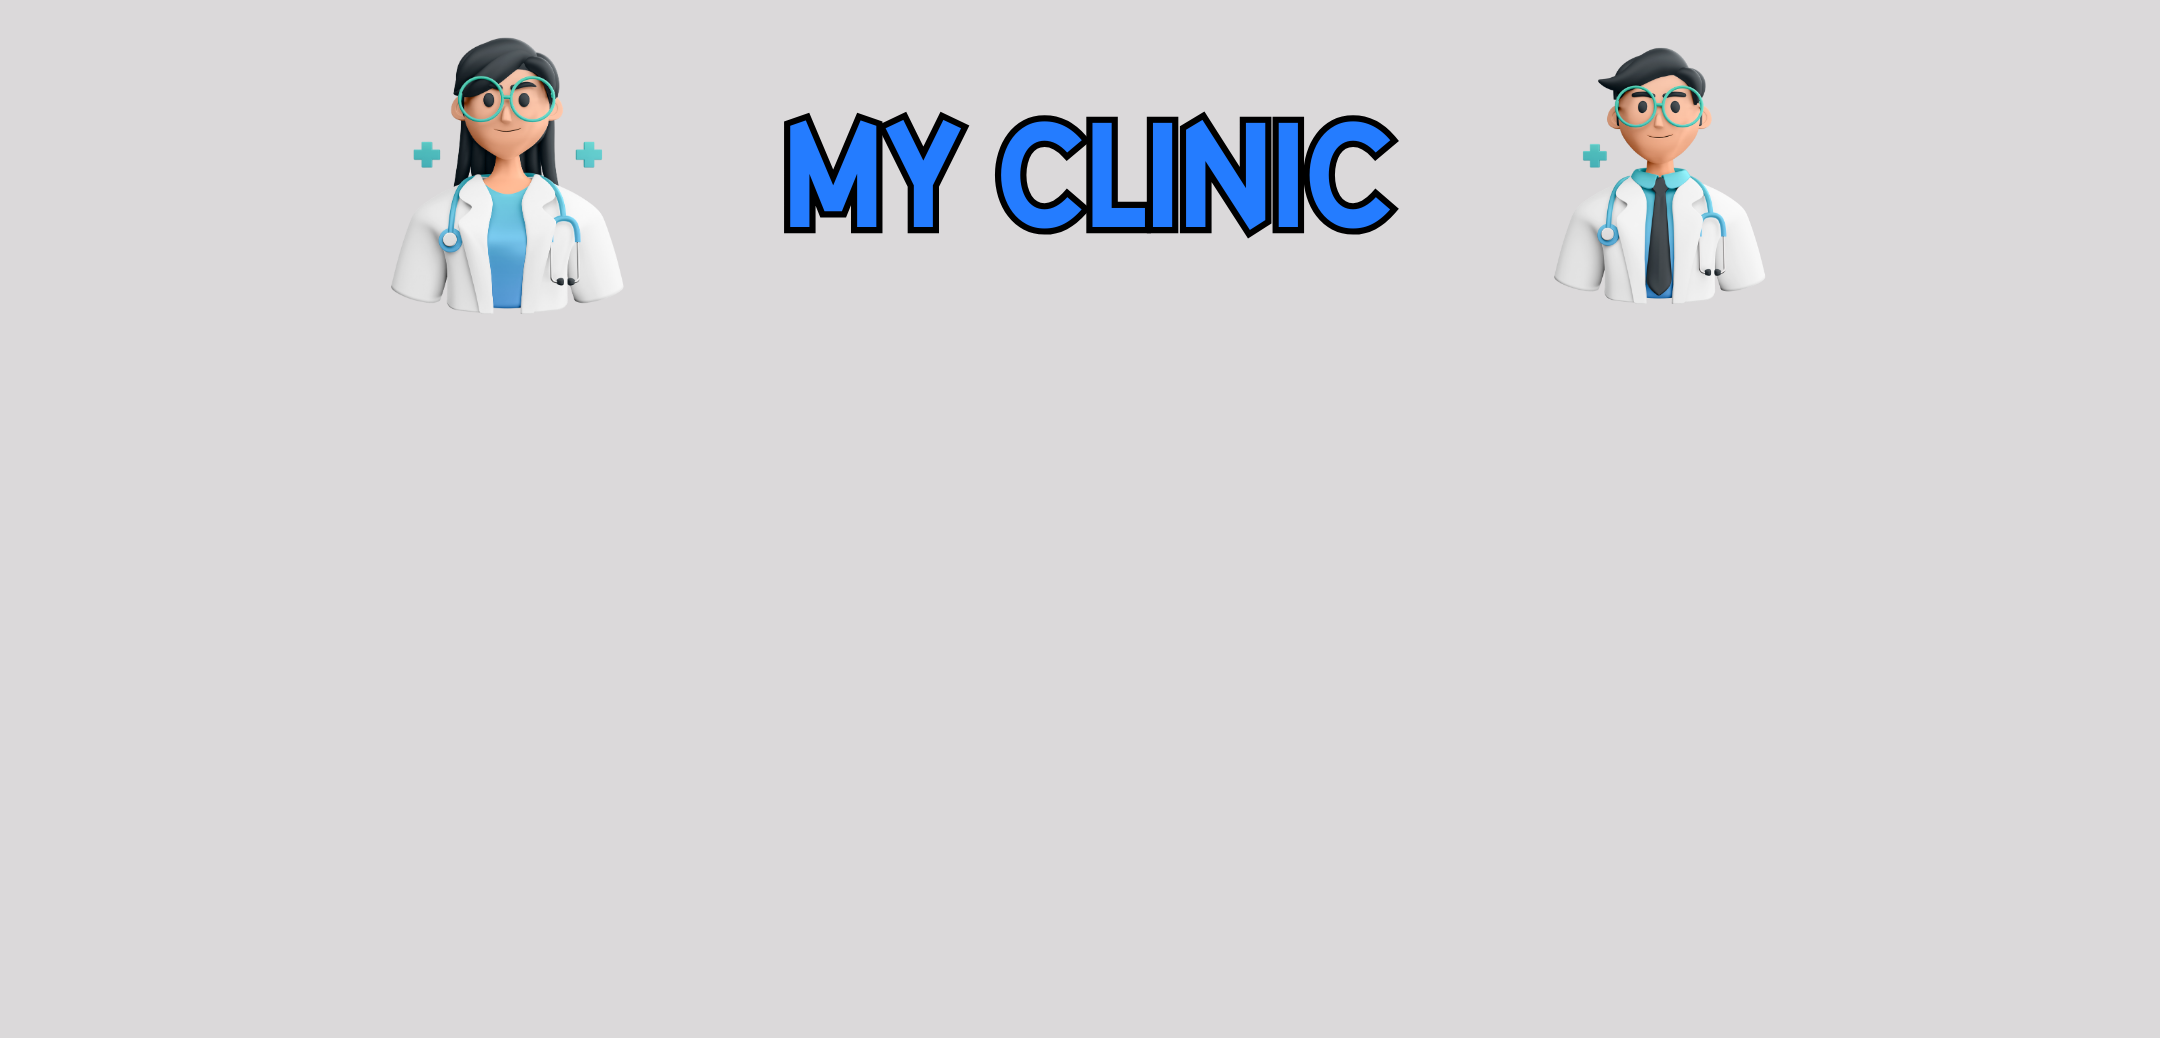
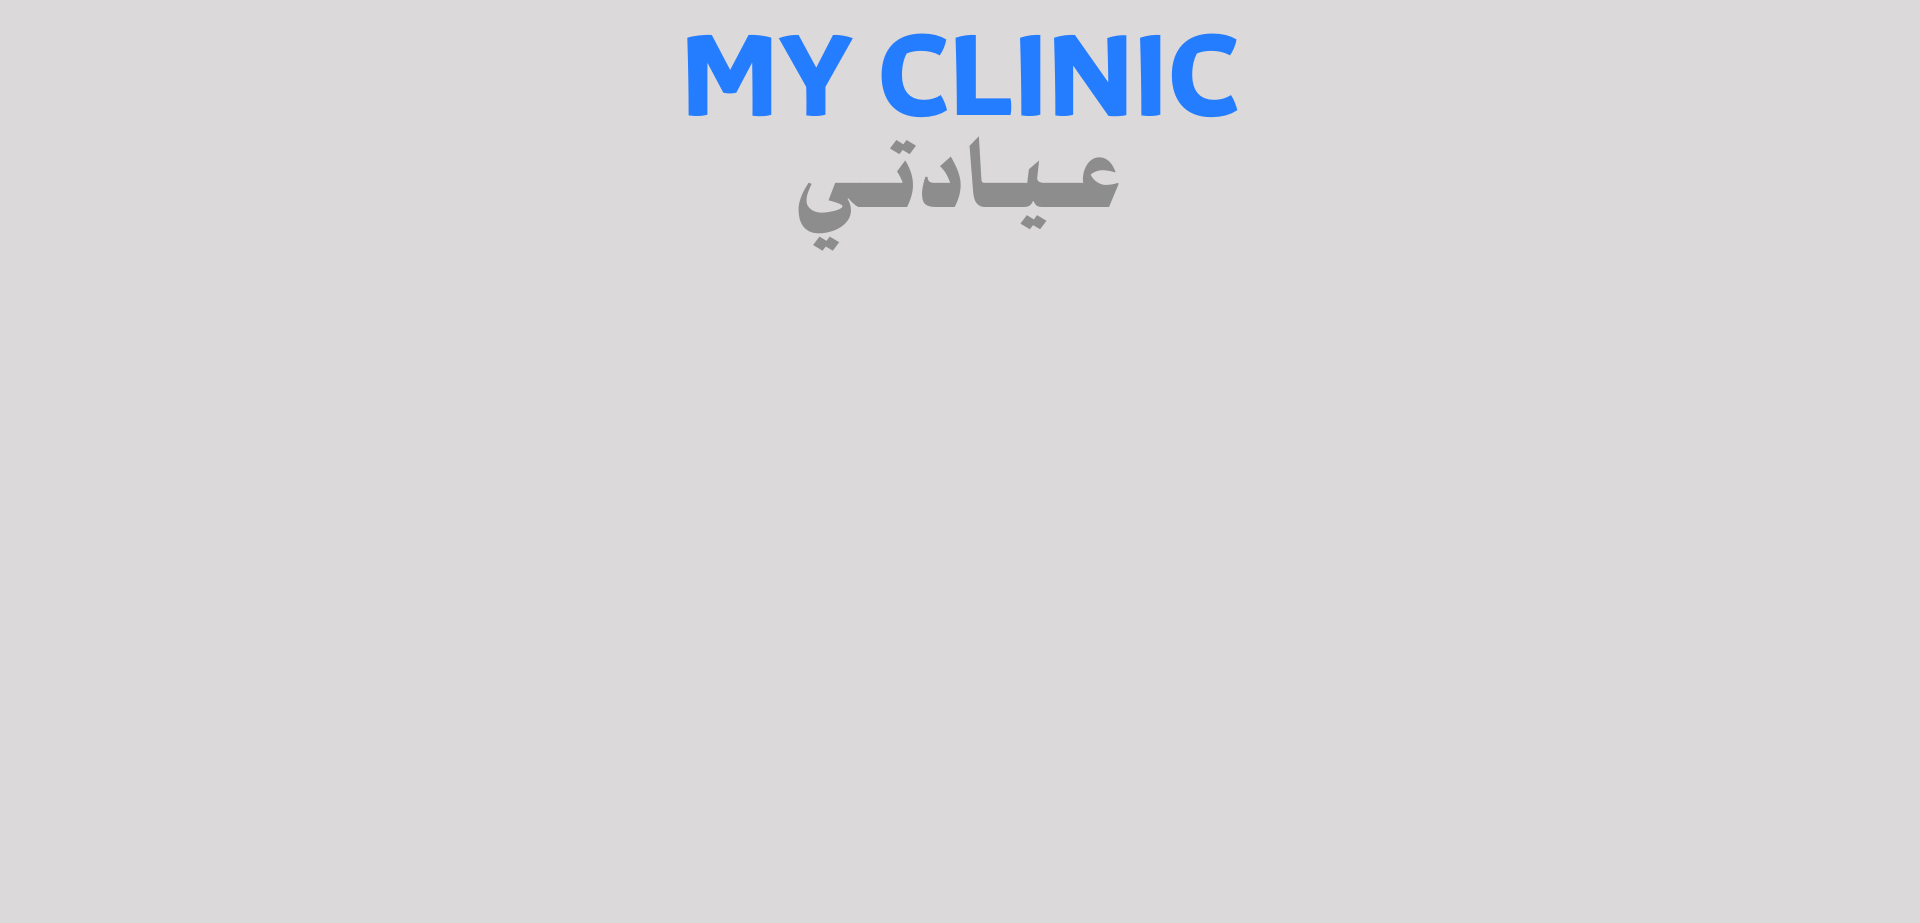
rest one Editing

Changed region(s): [[0.3438, 0.0303, 0.6562, 0.273], [0.1875, 0.0303, 0.3125, 0.3034], [0.7188, 0.0303, 0.8125, 0.3034]]

diff --git a/First_Project/dams/Homestyle.css b/First_Project/dams/Homestyle.css
@@ -99,3 +99,19 @@ body {
 
 
   /*///////////////////////////////////////*/
+
+
+
+
+
+
+
+
+
+
+
+
+
+
+
+  

diff --git a/First_Project/dams/index.php b/First_Project/dams/index.php
@@ -126,6 +126,86 @@ $("#doctorlist").html(data);
   color: white;
 }
 
+
+
+
+
+
+
+
+
+/* /////////////////////////////////////////////////////////////////// */
+
+
+
+.buttonn {
+  position: relative;
+  transition: all 0.3s ease-in-out;
+  box-shadow: 0px 10px 20px rgba(0, 0, 0, 0.2);
+  padding-block: 0.5rem;
+  padding-inline: 1.25rem;
+  background-color: rgb(0 107 179);
+  border-radius: 9999px;
+  display: flex;
+  align-items: center;
+  justify-content: center;
+  color: #ffff;
+  gap: 10px;
+  font-weight: bold;
+  border: 3px solid #ffffff4d;
+  outline: none;
+  overflow: hidden;
+  font-size: 15px;
+}
+
+.icon {
+  width: 24px;
+  height: 24px;
+  transition: all 0.3s ease-in-out;
+}
+
+.buttonn:hover {
+  transform: scale(1.10);
+  border-color: #fff9;
+}
+
+.buttonn:hover .icon {
+  transform: translate(4px);
+}
+
+.buttonn:hover::before {
+  animation: shine 1.5s ease-out infinite;
+}
+
+.buttonn::before {
+  content: "";
+  position: absolute;
+  width: 100px;
+  height: 100%;
+  background-image: linear-gradient(
+    120deg,
+    rgba(255, 255, 255, 0) 30%,
+    rgba(255, 255, 255, 0.8),
+    rgba(255, 255, 255, 0) 70%
+  );
+  top: 0;
+  left: -100px;
+  opacity: 0.6;
+}
+
+@keyframes shine {
+  0% {
+    left: -100px;
+  }
+
+  60% {
+    left: 100%;
+  }
+
+  to {
+    left: 100%;
+  }
+}
 </style>
     </head>
     
@@ -221,8 +301,73 @@ foreach($results as $row)
 
 </center> -->
 
+
+
+
             <center style="background-color: white;padding-bottom: 100px;">
     <p class="docheading">Select The Category of Doctors</p>
+
+
+    <div id="container" >
+<a href="./Card Slider/Cards/Doctor-1/index.php"><button class="buttonn" style="margin-left:39px;">
+  Obstetrics and Gynecology
+ </button></a>
+ <a href="./Card Slider/Cards/Doctor-2/index.php"><button class="buttonn" style="    margin-left: 29px;">
+ Internal Medicine - Cardiology
+ </button></a>
+ <a href="./Card Slider/Cards/Doctor-3/index.php"><button class="buttonn" style="    margin-left: 29px;">
+ medical diagnostic radiology -board
+ </button></a>
+ <a href="./Card Slider/Cards/Doctor-4/index.php"><button class="buttonn" style="    margin-left: 29px;">
+ Dentistry
+ </button></a>
+ <a href="./Card Slider/Cards/Doctor-5/index.php"><button class="buttonn" style="    margin-left: 29px;">
+ Cancer Specialty
+ </button></a>
+  </div>
+
+
+
+  <div id="container" style="margin-top:40px">
+<a href="./Card Slider/Cards/Doctor-6/index.php"><button class="buttonn" style="margin-left:39px;">
+Kidney Surgery - Urology
+  </button></a>
+ <a href="./Card Slider/Cards/Doctor-7/index.php"><button class="buttonn" style="    margin-left: 29px;">
+ Brain Surgery - Spine - Neurospinal
+    
+ </button></a>
+ <a href="./Card Slider/Cards/Doctor-8/index.php"><button class="buttonn" style="    margin-left: 29px;">
+ Dental Treatment
+ </button></a>
+ <a href="./Card Slider/Cards/Doctor-9/index.php"><button class="buttonn" style="    margin-left: 29px;">
+ Pediatric Medicine
+ </button></a>
+ <a href="./Card Slider/Cards/Doctor-10/index.php"><button class="buttonn" style="    margin-left: 29px;">
+ Rheumatology Board
+ </button></a>
+  </div>
+
+
+
+  <div id="container" style="margin-top:40px">
+<a href="./Card Slider/Cards/Doctor-11/index.php"><button class="buttonn" style="margin-left:39px;">
+Dermatology - Cosmetic -  Laser
+  </button></a>
+ 
+  </div>
+
+
+
+
+
+
+  <br><br><br><br><br><br><br><br><br>
+
+
+
+
+
+
     <div id="container">
       <div><a class="doc_link" href="./Card Slider/Cards/Doctor-1/index.php">Obstetrics and Gynecology</a></div>
       <div><a class="doc_link" href="./Card Slider/Cards/Doctor-2/index.php">Internal Medicine - Cardiology</a></div>
@@ -237,6 +382,7 @@ foreach($results as $row)
       <div><a class="doc_link" href="./Card Slider/Cards/Doctor-9/index.php">Pediatric Medicine</a></div>
       <div><a class="doc_link" href="./Card Slider/Cards/Doctor-10/index.php">Rheumatology Board</a></div>
     </div>
+    &nbsp;
     <div id="container">
       <span></span>
       <span></span>

diff --git a/First_Project/dams/Card Slider/Cards/Doctor-2/index.php b/First_Project/dams/Card Slider/Cards/Doctor-2/index.php
@@ -43,7 +43,7 @@
   padding: 0;
 }
 .background-imag{
-  background-image: url('MY_CLINIC.jpg');
+  background-image: url('./MY_CLINIC.jpg');
   background-size:cover;
   background-repeat:no-repeat;
   height: 100vh;
@@ -52,7 +52,7 @@
 
 .container {
     border-radius: 20px;
-    margin-top: 93px;
+    margin-top: 152px;
 }
 
 
@@ -70,7 +70,7 @@
         <div class="swiper-slide card">
           <div class="card-content">
             <div class="image">
-              <img src="img/1.jpg" alt="">
+              <img src="img/MY_CLINIC.jpg" alt="">
             </div>
 
             <div class="social-media">
@@ -95,7 +95,7 @@ if (mysqli_num_rows($result) > 0)
         // echo "" .$row["MobileNumber"]."<br>";
         // echo "" .$row["Specialization"]."<br>";
         echo "<tr>";
-            echo "<td><a href='#' style='font-size: 15px;text-decoration: none;color: black;' >" .$row["FullName"] . "</a></td>";
+            echo "<td><a href='#' style='font-size: 15px; padding-left: 30px;text-decoration: none;color: black;' >" .$row["FullName"] . "</a></td>";
             echo "<br>";
             echo "<td><a href='#' style='font-size: 15px;text-decoration: none;color: black;margin-left: 63px;' >0" .$row["MobileNumber"] . "</a></td>";
  

diff --git a/First_Project/dams/Card Slider/Cards/Doctor-3/index.php b/First_Project/dams/Card Slider/Cards/Doctor-3/index.php
@@ -53,7 +53,7 @@
 
 .container {
     border-radius: 20px;
-    margin-top: 104px;
+    margin-top: 169px;
 }
 
 
@@ -96,7 +96,7 @@ if (mysqli_num_rows($result) > 0)
         // echo "" .$row["MobileNumber"]."<br>";
         // echo "" .$row["Specialization"]."<br>";
         echo "<tr>";
-            echo "<td><a href='#' style='font-size: 15px;text-decoration: none;color: black;' >" .$row["FullName"] . "</a></td>";
+            echo "<td><a href='#' style='font-size: 15px;text-decoration: none;color: black; padding-left: 35px;' >" .$row["FullName"] . "</a></td>";
             echo "<br>";
             echo "<td><a href='#' style='font-size: 15px;text-decoration: none;color: black;margin-left: 63px;' >0" .$row["MobileNumber"] . "</a></td>";
  

diff --git a/First_Project/dams/Card Slider/Cards/Doctor-11/index.php b/First_Project/dams/Card Slider/Cards/Doctor-11/index.php
@@ -53,7 +53,7 @@
 
 .container {
     border-radius: 20px;
-    margin-top: 110px;
+    margin-top: 169px;
 }
 
 
@@ -71,7 +71,7 @@
         <div class="swiper-slide card">
           <div class="card-content">
             <div class="image">
-              <img src="img/1.jpg" alt="">
+              <img src="img/MY_CLINIC.jpg" alt="">
             </div>
 
             <div class="social-media">

diff --git a/First_Project/dams/Card Slider/Cards/Doctor-8/index.php b/First_Project/dams/Card Slider/Cards/Doctor-8/index.php
@@ -53,7 +53,7 @@
 
 .container {
     border-radius: 20px;
-    margin-top: 93px;
+    margin-top: 152px;
 }
 
 
@@ -71,7 +71,7 @@
         <div class="swiper-slide card">
           <div class="card-content">
             <div class="image">
-              <img src="img/1.jpg" alt="">
+              <img src="img/MY_CLINIC.jpg" alt="">
             </div>
 
             <div class="social-media">

diff --git a/First_Project/dams/Card Slider/Cards/Doctor-1/index.php b/First_Project/dams/Card Slider/Cards/Doctor-1/index.php
@@ -43,7 +43,7 @@
   padding: 0;
 }
 .background-imag{
-  background-image: url('MY_CLINIC.jpg');
+  background-image: url('./MY_CLINIC.jpg');
   background-size:cover;
   background-repeat:no-repeat;
   height: 100vh;
@@ -52,7 +52,7 @@
 
 .container {
     border-radius: 20px;
-    margin-top: 93px;
+    margin-top: 152px;
 }
 
 

diff --git a/First_Project/dams/Card Slider/Cards/Doctor-10/index.php b/First_Project/dams/Card Slider/Cards/Doctor-10/index.php
@@ -52,7 +52,7 @@
 
 .container {
     border-radius: 20px;
-    margin-top: 110px;
+    margin-top: 169px;
 }
 
 

diff --git a/First_Project/dams/Card Slider/Cards/Doctor-7/index.php b/First_Project/dams/Card Slider/Cards/Doctor-7/index.php
@@ -53,7 +53,7 @@
 
 .container {
     border-radius: 20px;
-    margin-top: 113px;
+    margin-top: 169px;
 }
 
 

diff --git a/First_Project/dams/Card Slider/Cards/Doctor-4/index.php b/First_Project/dams/Card Slider/Cards/Doctor-4/index.php
@@ -52,7 +52,7 @@
 
 .container {
     border-radius: 20px;
-    margin-top: 93px;
+    margin-top: 152px;
 }
 
 

diff --git a/First_Project/dams/Card Slider/Cards/Doctor-5/index.php b/First_Project/dams/Card Slider/Cards/Doctor-5/index.php
@@ -52,7 +52,7 @@
 
 .container {
     border-radius: 20px;
-    margin-top: 93px;
+    margin-top: 152px;
 }
 
 

diff --git a/First_Project/dams/Card Slider/Cards/Doctor-6/index.php b/First_Project/dams/Card Slider/Cards/Doctor-6/index.php
@@ -53,7 +53,7 @@
 
 .container {
     border-radius: 20px;
-    margin-top: 93px;
+    margin-top: 152px;
 }
 
 
